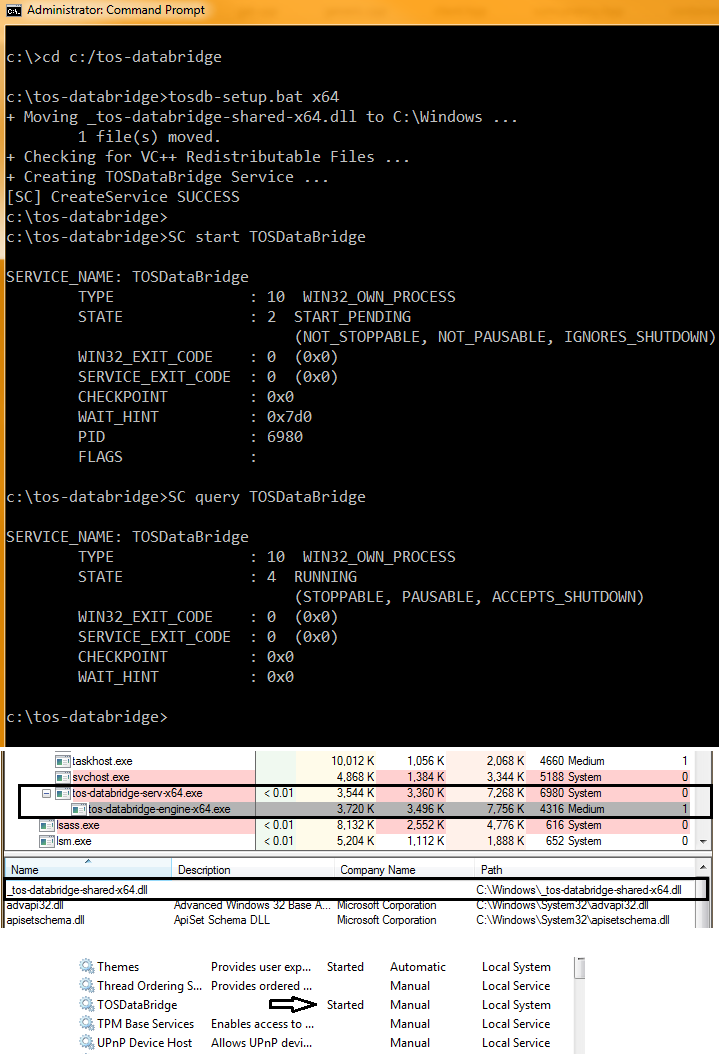
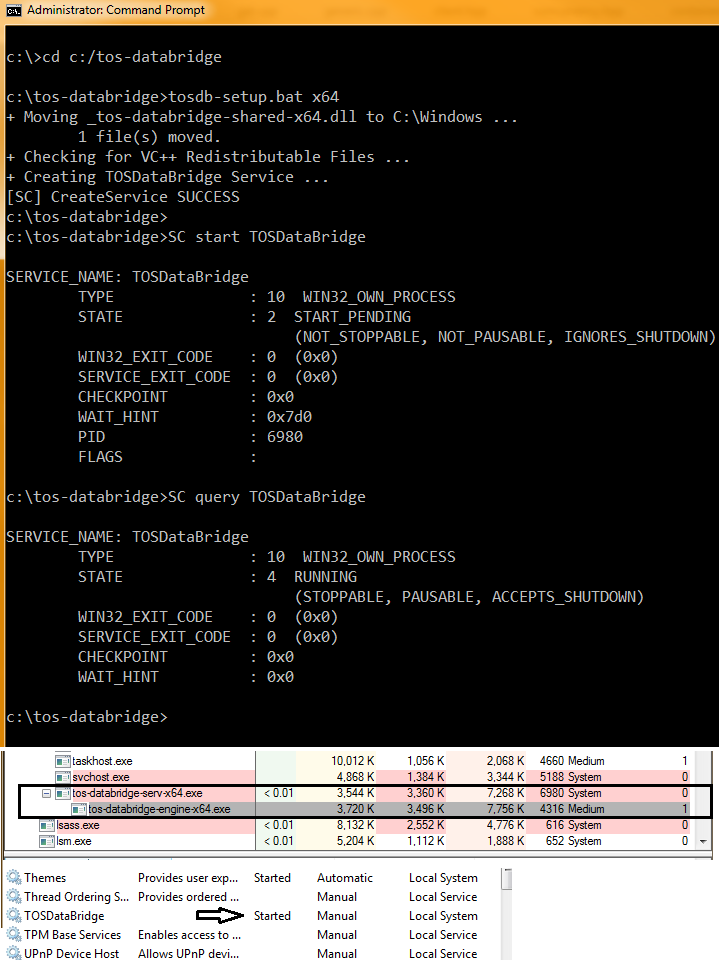
update readme, screen-shots

Changed region(s): [[0.0, 0.0, 1.0, 1.0], [0.7955, 0.3125, 1.0, 0.375], [0.6732, 0.5625, 0.8873, 0.625]]

diff --git a/README.md b/README.md
@@ -182,7 +182,7 @@ Even if you are not comfortable contributing code, simply reporting bugs or ques
   
 9.  After the Windows Service has been successfully created run: 
 
-    ```C:\> 'SC start TOSDataBridge'```  
+    ```C:\> SC start TOSDataBridge```  
 
     Returned text and various system utilities should confirms the service is running, (see screen-shot below).
 
@@ -192,14 +192,17 @@ Even if you are not comfortable contributing code, simply reporting bugs or ques
     - *SC stop TOSDataBridge* - this will stop the service. All the data collected so far will still exist but the engine will sever its connection to TOS and exit.  It should no longer be shown as a running process and its status should be Stopped.
     - *SC pause TOSDataBridge* - this will pause the service. All the data collected so far will still exist but the engine will stop recording new data in the buffers. It should still be shown as a running process but its status should be Paused. ***It's not recommended you pause the service.***
     - *SC continue TOSDataBridge* - this should continue a paused service. All the data collected so far will still exist, the engine will start recording new data into the buffers, but you will have missed any streaming data while paused. The service should return to the Running state.
-    
+
+    (note: some of the particulars in these (older) screen-shots may be different for newer versions)    
+    ![](./res/SCss1.png)
+
 10. (***SKIP IF ONLY USING PYTHON***) Include the tos_databridge.h header in your code ( if its C++ make sure the compiler can find containers.hpp, generic.hpp, and exceptions.hpp. ) and adjust the link settings to import the tos-databridge-0.4-[].lib stub. (If you run into trouble review the VisualStudio settings for tos-databridge-shell[].exe as they should resemble what you're trying to do.)
    
 11. (***SKIP IF ONLY USING PYTHON***) Jump down to the next section for some of the basic library calls to add to your program.
    
 12. Make sure the TOS Platform is running, execute your program or start the python wrapper(see below).
 
-![](./res/SCss1.png)
+
 
 ### Python Wrapper
 - - -
